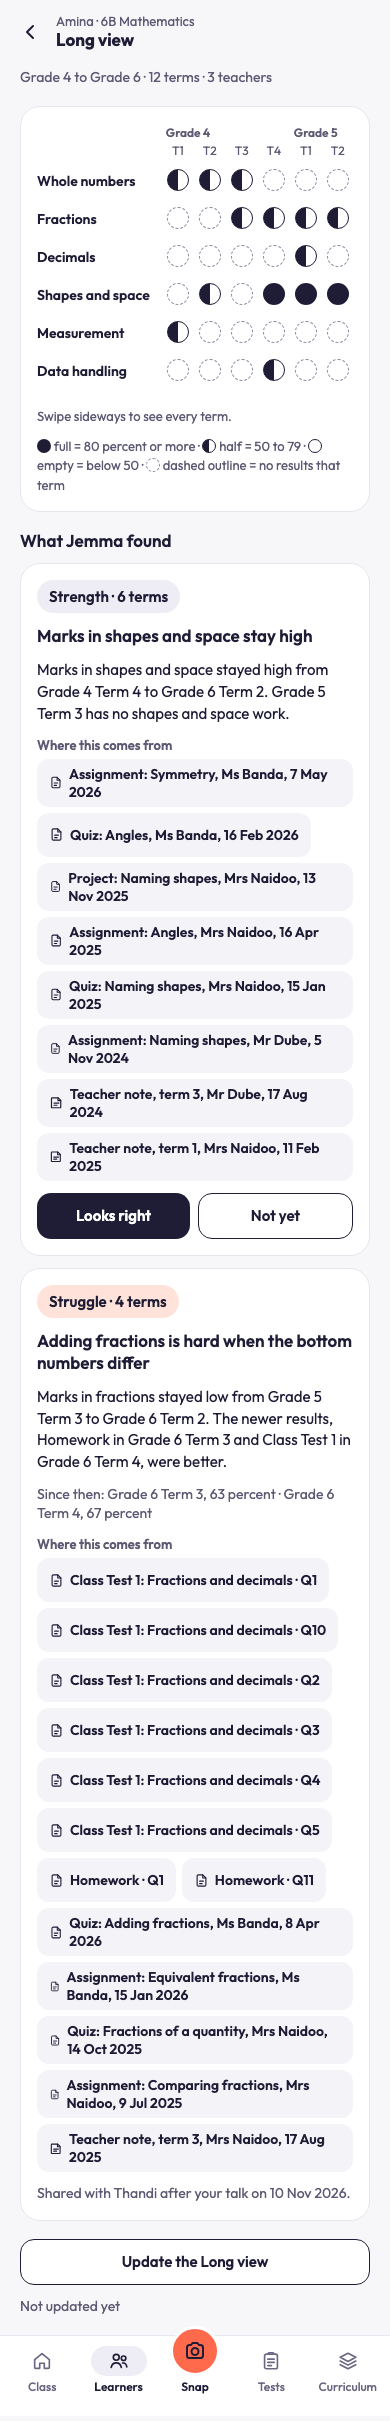
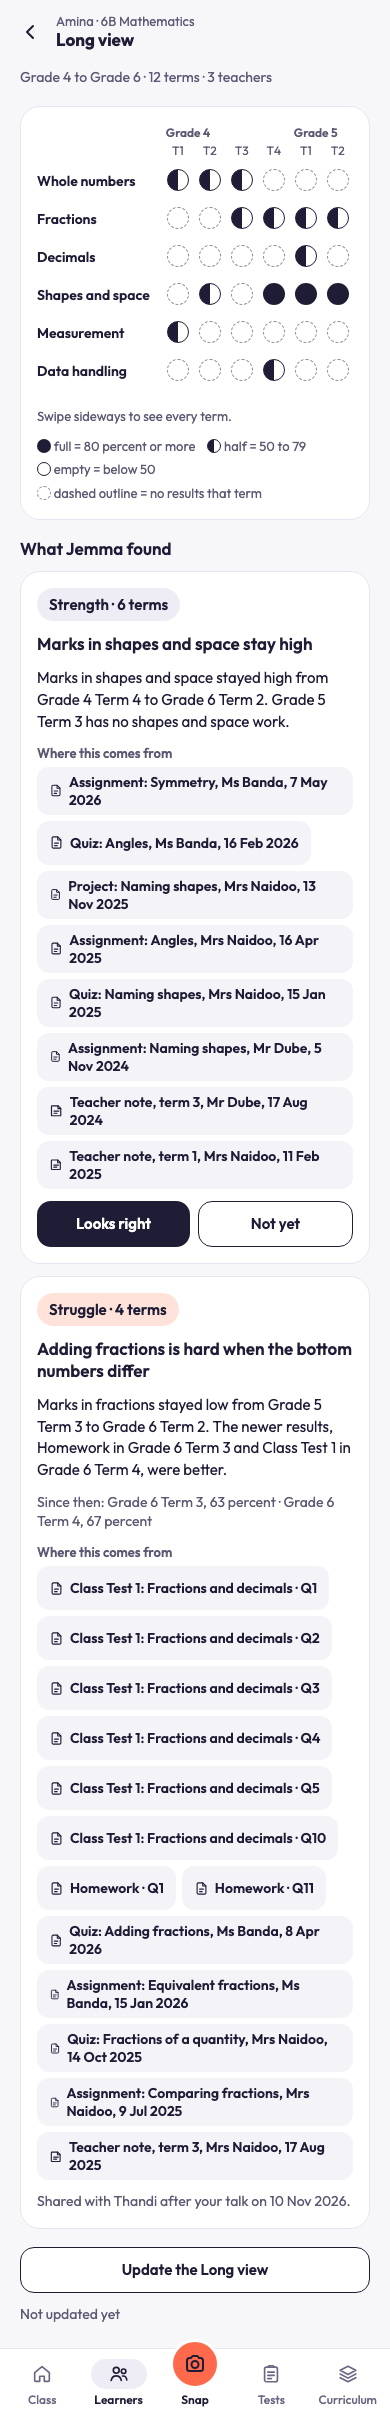
test(long-view): p52 spec passes on phone and laptop, patient waits; proof screenshots at 390 and 1440; legend items stay together

diff --git a/apps/web/e2e/p52.spec.ts b/apps/web/e2e/p52.spec.ts
@@ -11,7 +11,8 @@ import { signInWithPassword } from './helpers/session'
 // on the agent's port (8753) and the update jobs are never run. (The real agent is used by demo-path.spec.ts.)
 // Screenshots for the reviewer are written only when P52_PROOF is set, to design/proof/p52, named by width (390 or 1440).
 
-const check = expect.configure({ timeout: 20_000 })
+// Every step of a decision is a few round trips to the database, so the waits are patient.
+const check = expect.configure({ timeout: 45_000 })
 
 const admin = () => createServiceClient({ SUPABASE_URL: process.env.SUPABASE_URL!, SUPABASE_SERVICE_ROLE_KEY: process.env.SUPABASE_SERVICE_ROLE_KEY! })
 
@@ -83,7 +84,7 @@ test.use({ screenshot: 'only-on-failure' })
 
 test.describe('the Long view', () => {
   test.setTimeout(480_000)
-  test.use({ actionTimeout: 20_000 })
+  test.use({ actionTimeout: 45_000 })
 
   test('the teacher checks each pattern and talks to the parent, then the parent sees it. The learner never does', async ({ page }, testInfo) => {
     const phone = testInfo.project.name === 'phone'
@@ -284,7 +285,7 @@ test.describe('the Long view', () => {
       expect(posted).toHaveLength(1)
       // The update finishes and says when.
       await db.from('events').update({ status: 'done', finished_at: new Date().toISOString() }).eq('id', (await longViewEvents(sipho))[0]!.id)
-      await check(page.getByText(/^Last updated today at \d\d:\d\d$/)).toBeVisible({ timeout: 30_000 })
+      await check(page.getByText(/^Last updated today at \d\d:\d\d$/)).toBeVisible({ timeout: 60_000 })
       await expect(page.getByRole('button', { name: 'Update the Long view' })).toBeEnabled()
       await noHorizontalScroll(page)
       await proof(page, 'teacher-too-early')

diff --git a/apps/web/app/t/[classId]/learners/[childId]/long-view/page.tsx b/apps/web/app/t/[classId]/learners/[childId]/long-view/page.tsx
@@ -81,8 +81,19 @@ function Grid({ v }: { v: LongView }) {
         </table>
       </div>
       {v.columns.length > 6 ? <p className="m-0 text-[13px] leading-[1.4] text-body lg:hidden">Swipe sideways to see every term.</p> : null}
-      <p className="m-0 text-[13px] leading-[1.5] text-body">
-        <MiniDot level="full" /> full = 80 percent or more · <MiniDot level="half" /> half = 50 to 79 · <MiniDot level="empty" /> empty = below 50 · <MiniDot level="none" /> dashed outline = no results that term
+      <p className="m-0 flex flex-wrap gap-x-3 gap-y-1 text-[13px] leading-[1.5] text-body">
+        <span className="whitespace-nowrap">
+          <MiniDot level="full" /> full = 80 percent or more
+        </span>
+        <span className="whitespace-nowrap">
+          <MiniDot level="half" /> half = 50 to 79
+        </span>
+        <span className="whitespace-nowrap">
+          <MiniDot level="empty" /> empty = below 50
+        </span>
+        <span className="whitespace-nowrap">
+          <MiniDot level="none" /> dashed outline = no results that term
+        </span>
       </p>
     </Card>
   )
